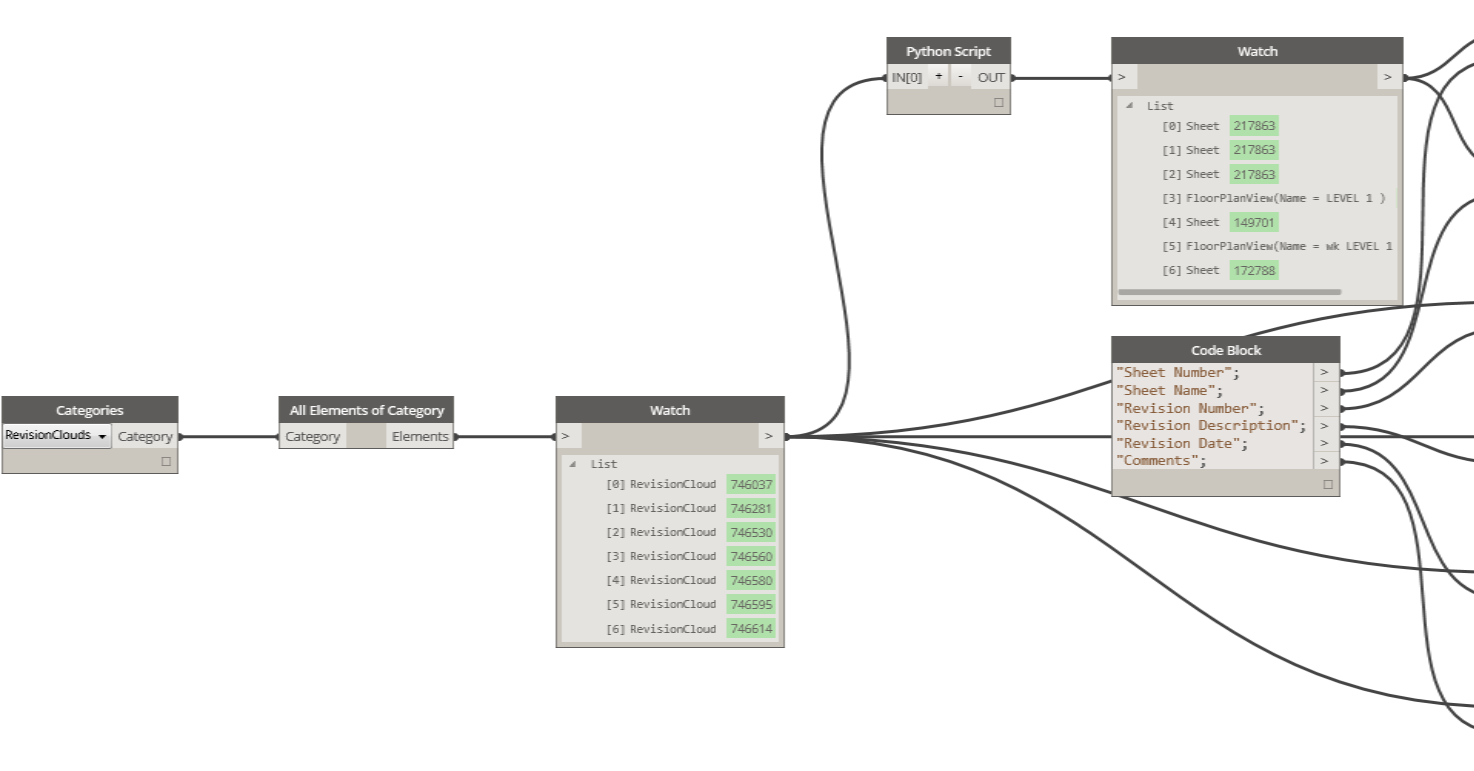
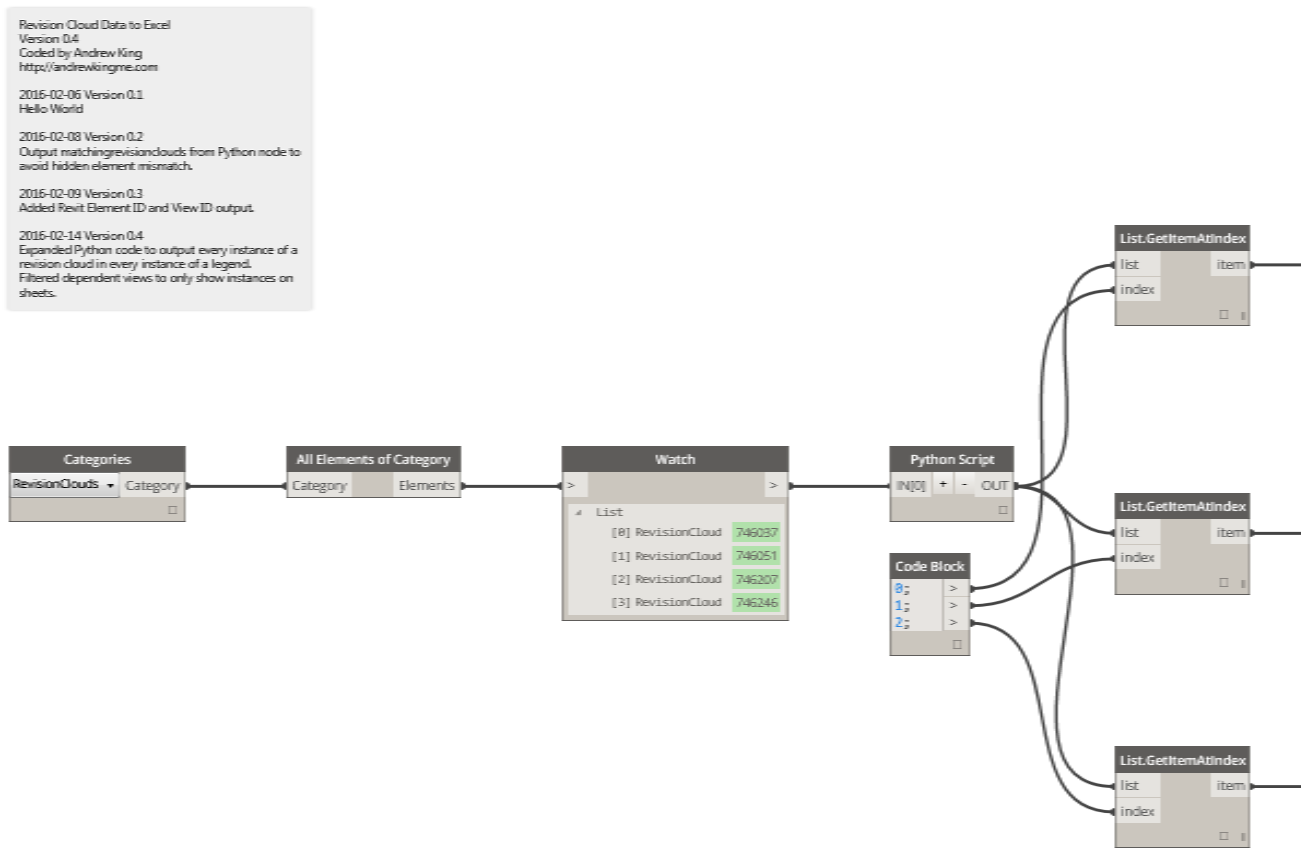
Post updated to reflect Version 0.4

Changed region(s): [[0.0, 0.0311, 1.0, 0.9961], [0.0, 0.0, 0.246, 0.3424]]

diff --git a/_work/Revit-Revision-Cloud-Data-to-Excel-via-Dynamo.md b/_work/Revit-Revision-Cloud-Data-to-Excel-via-Dynamo.md
@@ -31,15 +31,16 @@ I needed a way to manage all construction administration phase revisions within 
 * Revision Number
 * Revision Description
 * Revision Date
+* RFI/ASI/PR/CCD Number
 * Comments
 
 The solution: Dynamo.
 
-Using the following graph and custom Python script, I was able to extract the necesary data from Revit and push it to Excel.
+Using the following graph and custom Python code, I was able to extract the necesary data from Revit and push it to Excel.
 
-### First Half of Dynamo Graph
+### Dynamo Graph: Part 1
 
-The first half of the graph pulls in all of the revision clouds within the active document and directly extracts the Revision Number, Revision Description, and Revision Date. Comments are pulled in as instance parameters so that every revision cloud can have a different note.
+Part 1 of the graph pulls in all of the revision clouds within the active document and runs the elements through a custom Python node. RFI/ASI/PR/CCD Numbers and Comments are pulled in as instance parameters so that every revision cloud can have a unique identifier and a unique comment.
 
 ![Revit Revision Cloud Data to Excel via Dynamo](/{{ page.collection }}/img/Revit-Revision-Cloud-Data-to-Excel-via-Dynamo-001a.png)
 
@@ -49,68 +50,89 @@ Revit does not automatically report the Sheet Number or Sheet Name to a revision
 
 {% highlight python %}
 # Python Node for Dynamo
-# Input: Revit Elements, Output: Matching Views
-# Version 0.1
+# Input: Revision Cloud
+# Output: Matching View, Matching Revision Cloud, Referencing View
+# Version 0.4
 # Coded by Andrew King
 # http://andrewkingme.com
 # 
 # 2016-02-06 Version 0.1
 # Hello World
+#
+# 2016-02-08 Version 0.2
+# Output matchingrevisionclouds from Python node to avoid hidden element mismatch.
+#
+# 2016-02-14 Version 0.4
+# Expanded Python code to output every instance of a revision cloud in every instance of a legend.
 
 import clr
 clr.AddReference('ProtoGeometry')
 from Autodesk.DesignScript.Geometry import *
 
-# Import DocumentManager and TransactionManager
 clr.AddReference('RevitServices')
 import RevitServices
 from RevitServices.Persistence import DocumentManager
-from RevitServices.Transactions import TransactionManager
 
-# Import RevitAPI
 clr.AddReference('RevitAPI')
 import Autodesk
 from Autodesk.Revit.DB import *
 
-doc = DocumentManager.Instance.CurrentDBDocument
+revisioncloudinput = UnwrapElement(IN[0])
 
-#The inputs to this node will be stored as a list in the IN variables.
-dataEnteringNode = IN
-
-elements = UnwrapElement(IN[0])
-
-viewcollector = FilteredElementCollector(doc).OfClass(View)
 viewtemplates = []
 views = []
 
-viewelements = []
-matchingview = []
+matchingviews = []
+matchingrevisionclouds = []
+referencingviews = []
 
-for view in viewcollector:
+for view in FilteredElementCollector(DocumentManager.Instance.CurrentDBDocument).OfClass(View):
 	if view.IsTemplate == True:
 		viewtemplates.append(view)
 	else:
 		views.append(view)
 
-for element in elements:
+for revisioncloud in revisioncloudinput:
 	for view in views:
-		viewelements = FilteredElementCollector(doc, view.Id)
+		viewelements = FilteredElementCollector(DocumentManager.Instance.CurrentDBDocument, view.Id)
 		for viewelement in viewelements:
-			if viewelement.Id == element.Id:
-				matchingview.append(view)
+			if viewelement.Id == revisioncloud.Id:
+				if view.ViewType == ViewType.Legend:
+					
+					for sheet in FilteredElementCollector(DocumentManager.Instance.CurrentDBDocument).OfClass(ViewSheet):
+						viewports = sheet.GetAllPlacedViews()
+						for viewport in viewports:
+							legendview = DocumentManager.Instance.CurrentDBDocument.GetElement(viewport)
+							if view.Id == legendview.Id:
+								matchingviews.append(sheet)
+								matchingrevisionclouds.append(revisioncloud)
+								referencingviews.append(view)
+
+				else:
+					matchingviews.append(view)
+					matchingrevisionclouds.append(revisioncloud)
+					referencingviews.append(view)
 
 #Assign your output to the OUT variable.
-OUT = matchingview
+OUT = matchingviews, matchingrevisionclouds, referencingviews
 {% endhighlight %}
 
-### Second Half of Dynamo Graph
+### Dynamo Graph: Part 2
 
-The second half of the graph extracts the relevant parameter values, builds an itemized list, and sends it to Excel.
+Part 2 of the graph filters the output list to remove duplicate dependent view items. For example, if a revision cloud was placed in a dependent view of Floor Plan Level 1, Revit would find the revision in both the primary and dependent view. This portion of the graph will make sure that only revision clouds that show on a sheet will export to Excel.
 
 ![Revit Revision Cloud Data to Excel via Dynamo](/{{ page.collection }}/img/Revit-Revision-Cloud-Data-to-Excel-via-Dynamo-001b.png)
+
+### Dynamo Graph: Part 3
+
+Part 3 of the graph extracts the relevant parameter values, builds an itemized list, and sends it to Excel.
+
+![Revit Revision Cloud Data to Excel via Dynamo](/{{ page.collection }}/img/Revit-Revision-Cloud-Data-to-Excel-via-Dynamo-001c.png)
 
 ### Complete Dynamo Graph
 
 Here it is all together. Simple, efficient output of relevant revision cloud data.
 
 ![Revit Revision Cloud Data to Excel via Dynamo](/{{ page.collection }}/img/Revit-Revision-Cloud-Data-to-Excel-via-Dynamo-001.png)
+
+*Post updated to reflect Version 0.4 on 14 Feb 2016.*
